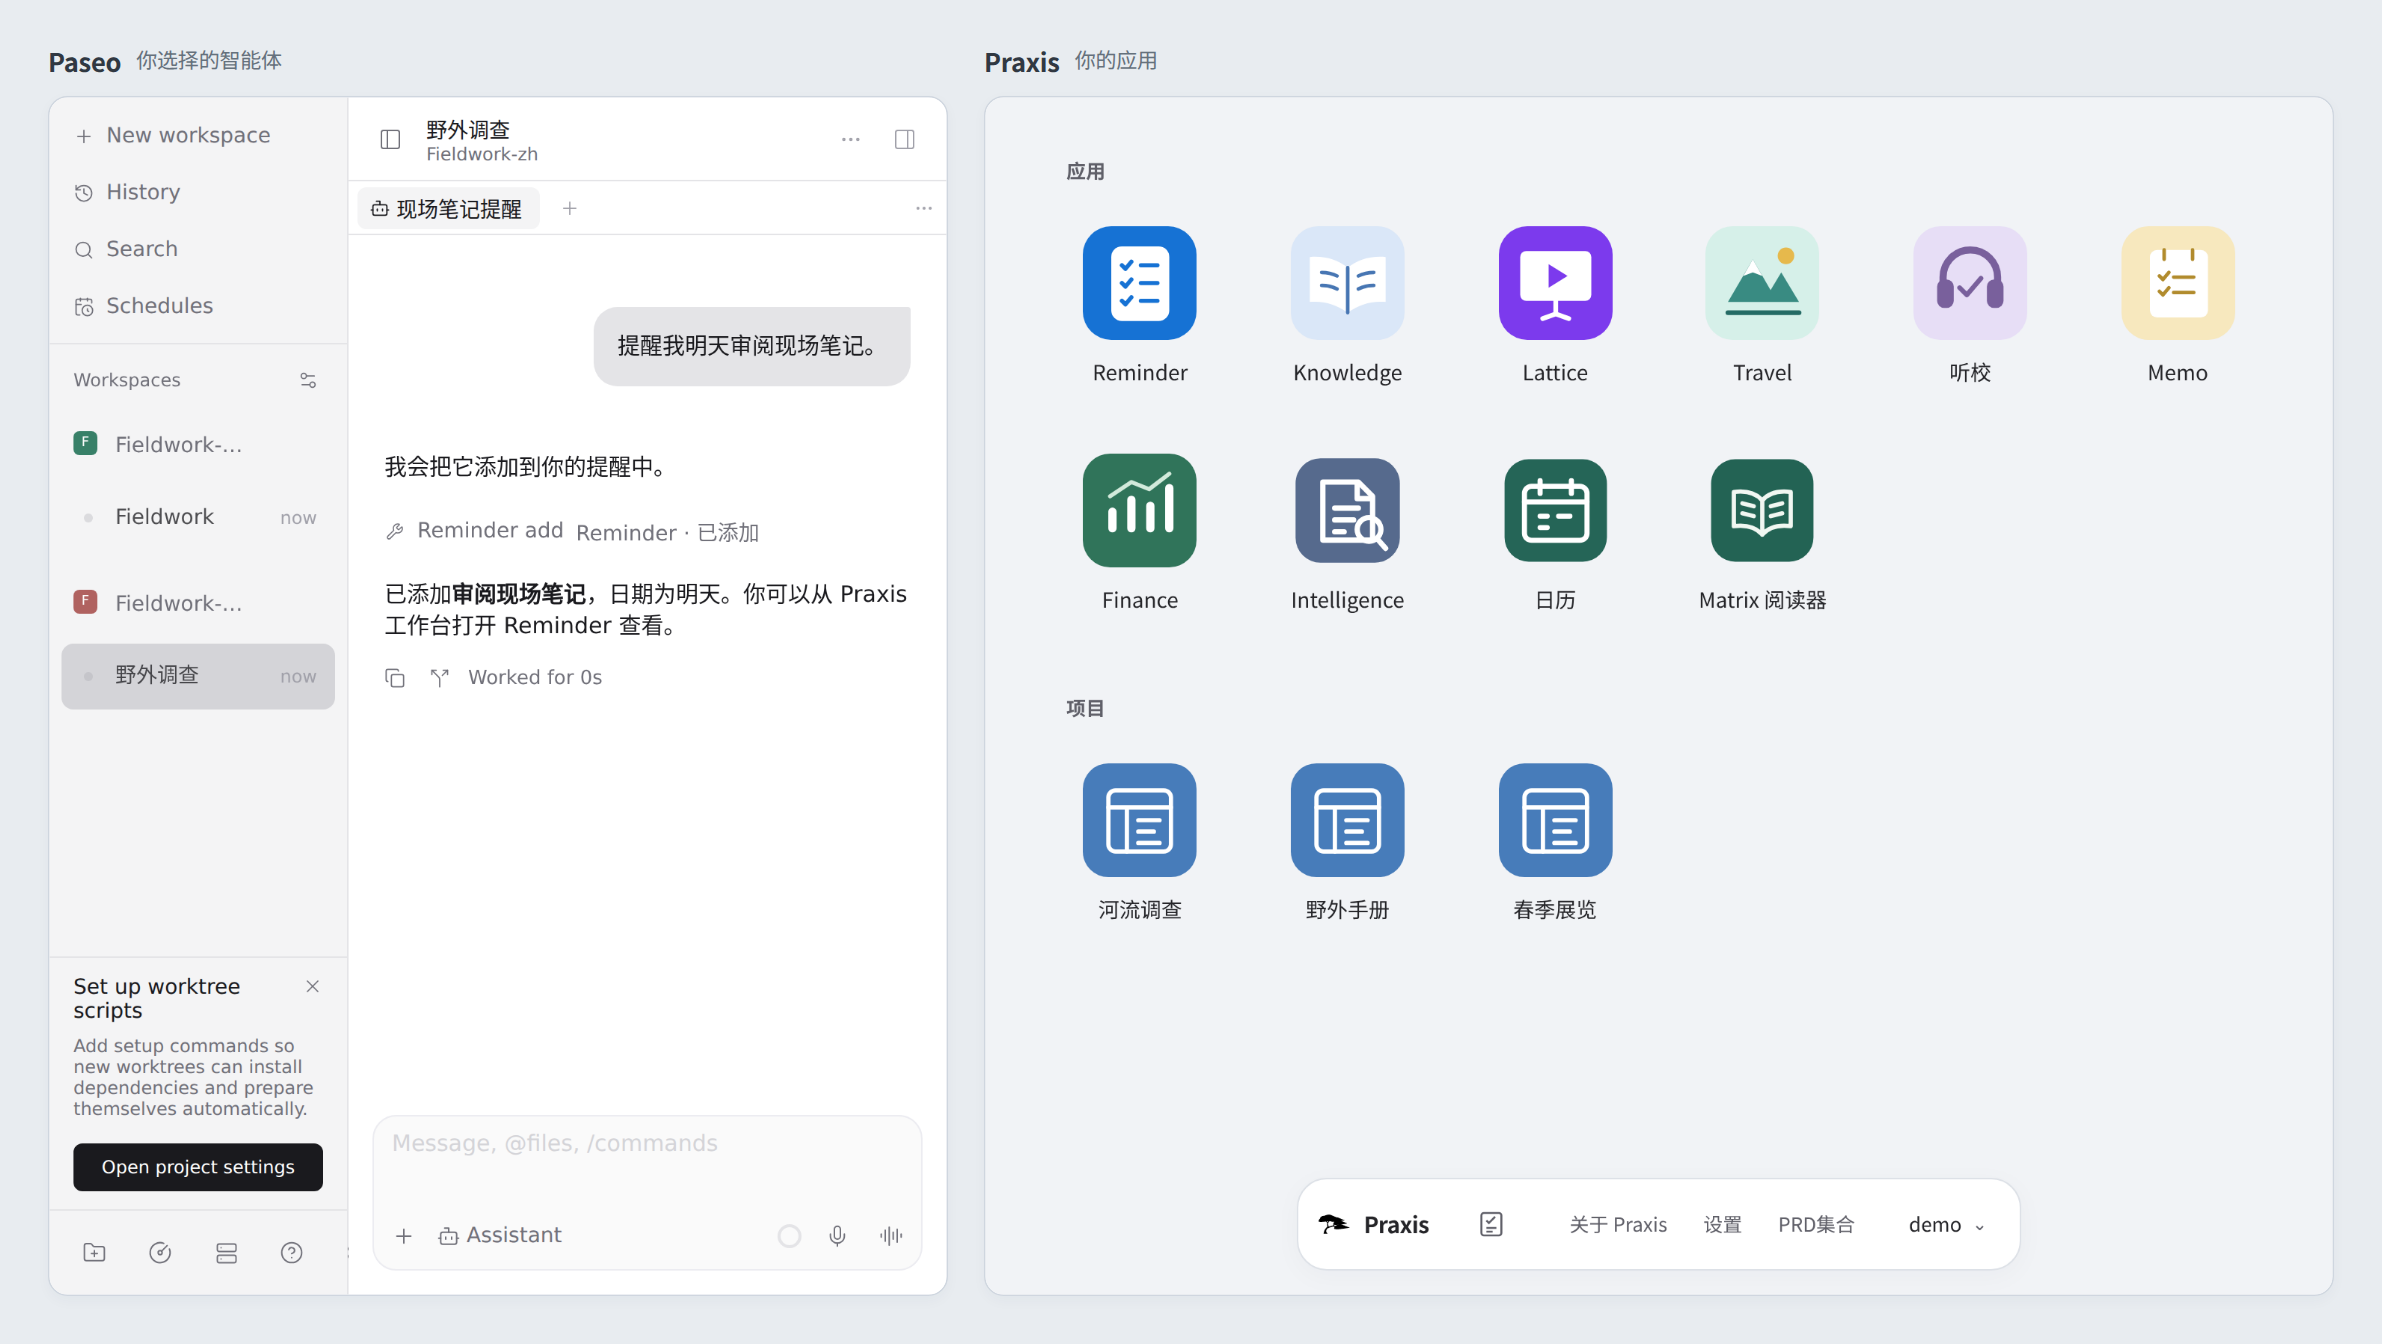
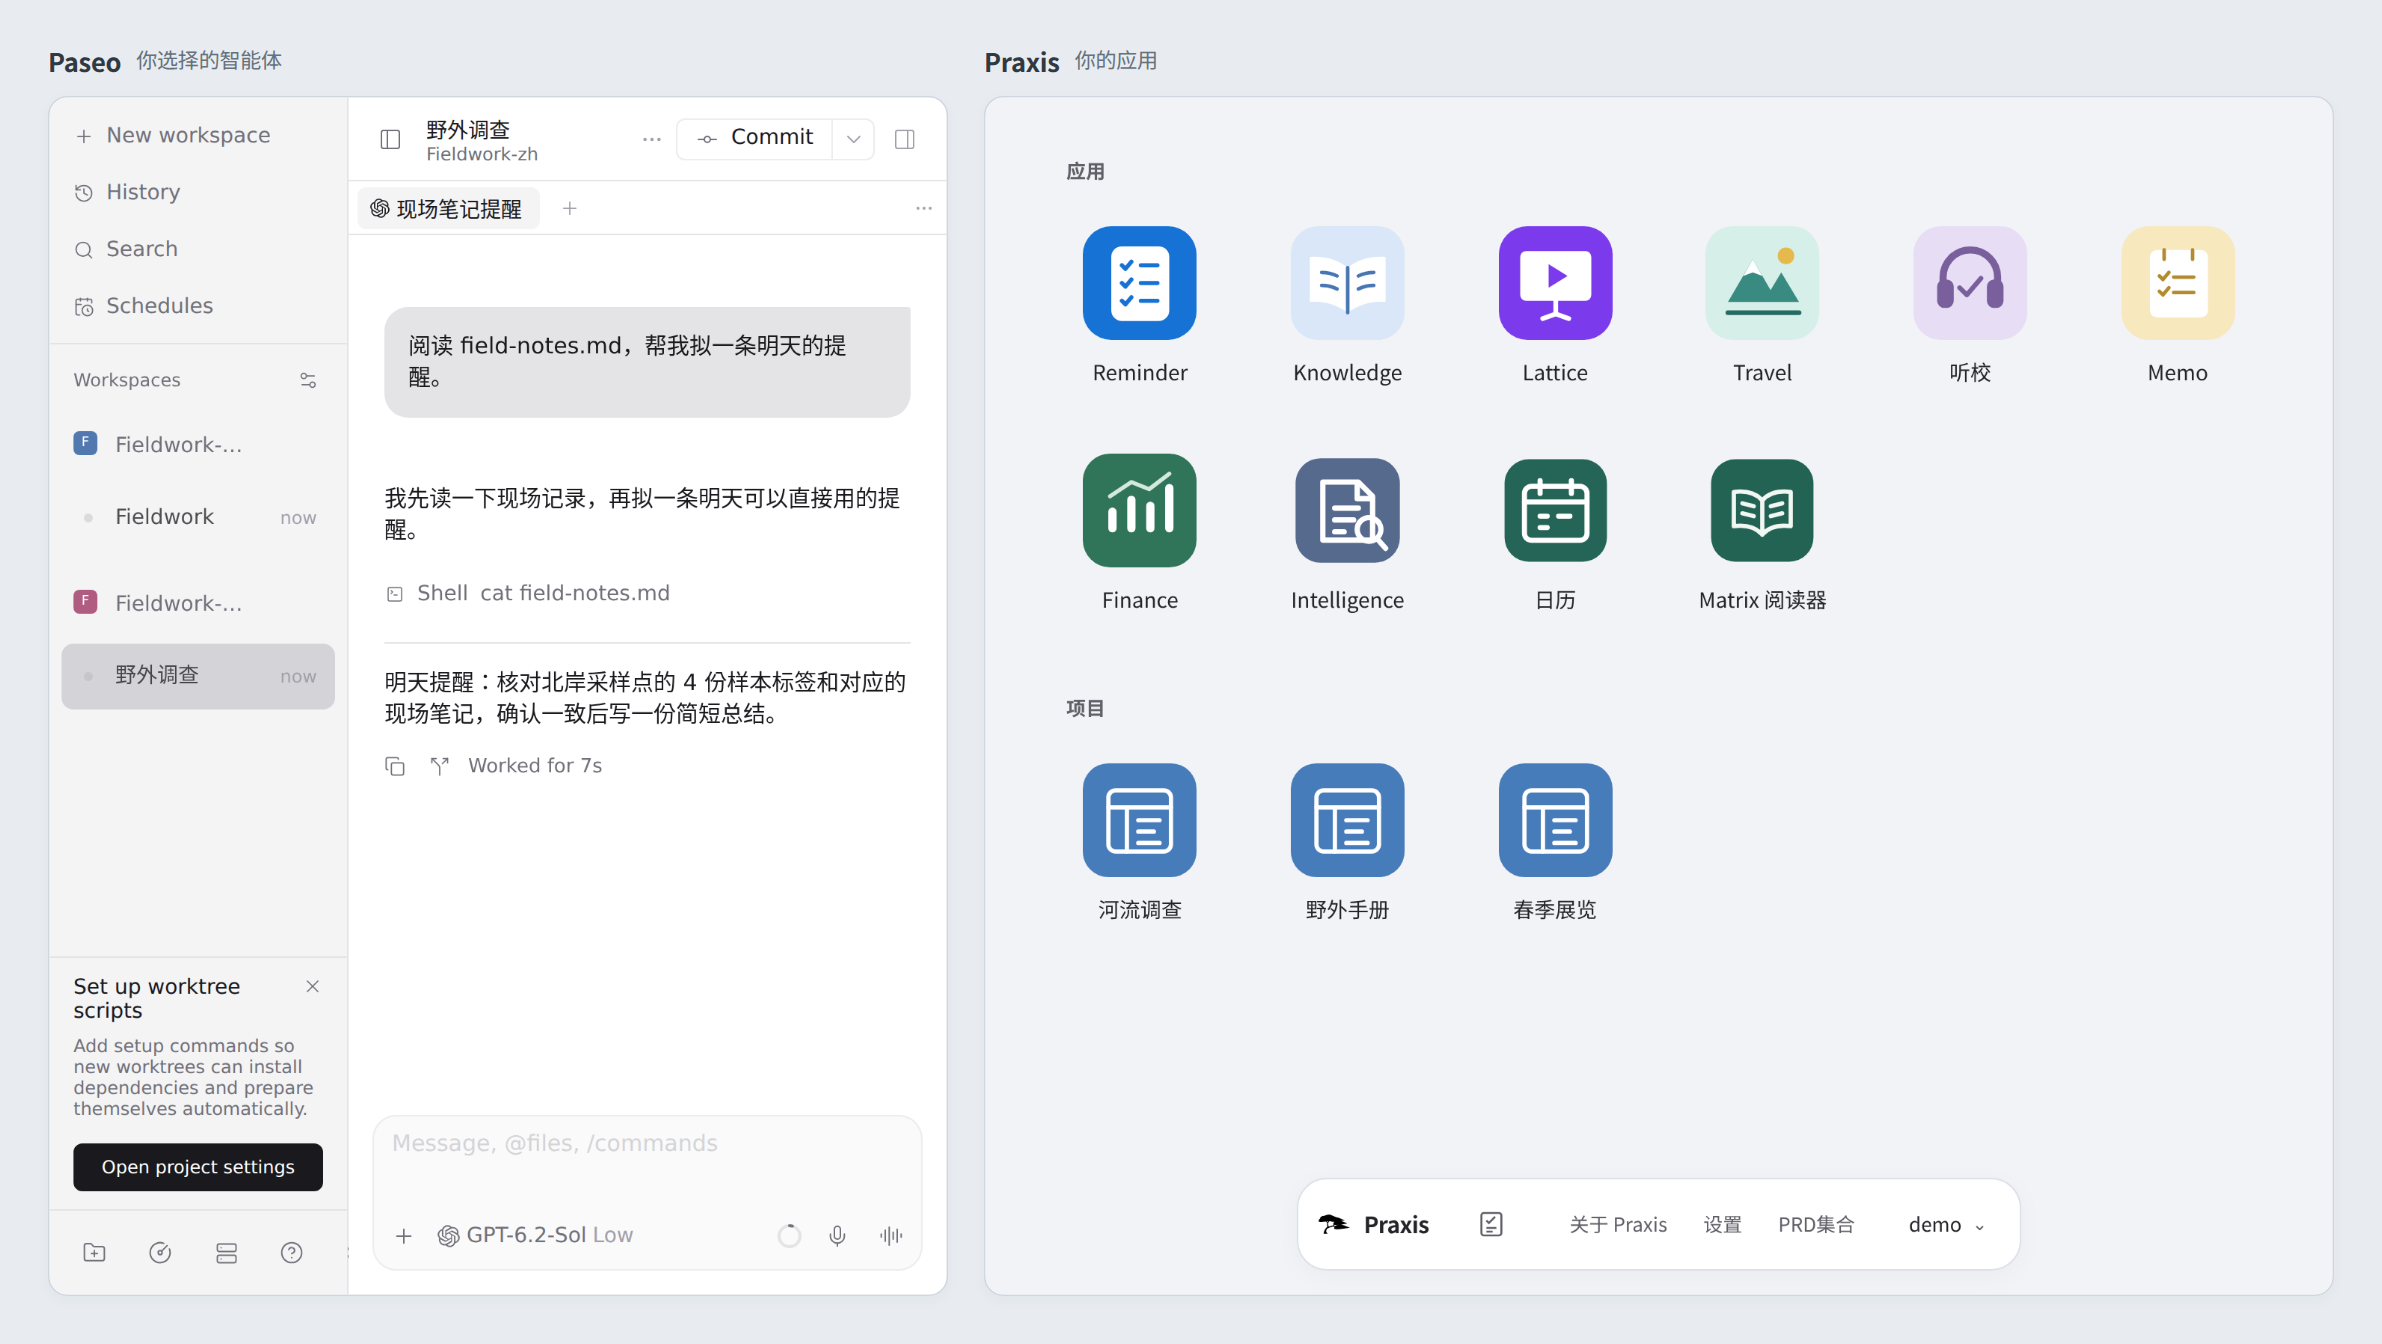
Replace illustrative agent messages with genuine Codex session captures

diff --git a/README.zh-CN.md b/README.zh-CN.md
@@ -6,7 +6,7 @@
 
 ![左侧为 Paseo 中的智能体会话，右侧为 Praxis 工作台](docs/images/workbench-zh.png)
 
-*图中的智能体会话与业务记录均为合成示例。*
+*左侧为真实 Codex 会话在 Paseo 中的截图，右侧为实际运行的 Praxis 工作台。演示资料和项目记录使用合成数据。*
 
 ## 本机运行
 

diff --git a/README.md b/README.md
@@ -6,7 +6,7 @@
 
 ![An agent conversation in Paseo on the left and the Praxis workbench on the right](docs/images/workbench-en.png)
 
-*The agent conversation and app records are synthetic examples.*
+*A real Codex session in Paseo alongside the running Praxis workbench. Demo files and project records use synthetic data.*
 
 ## Quickstart
 
